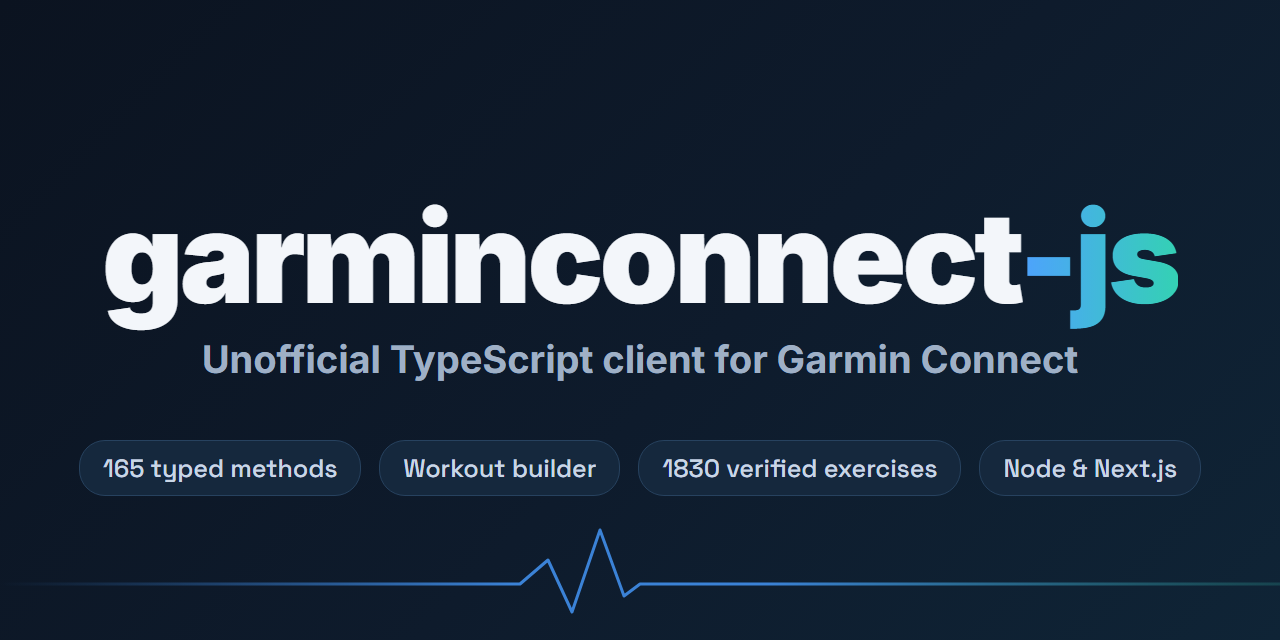
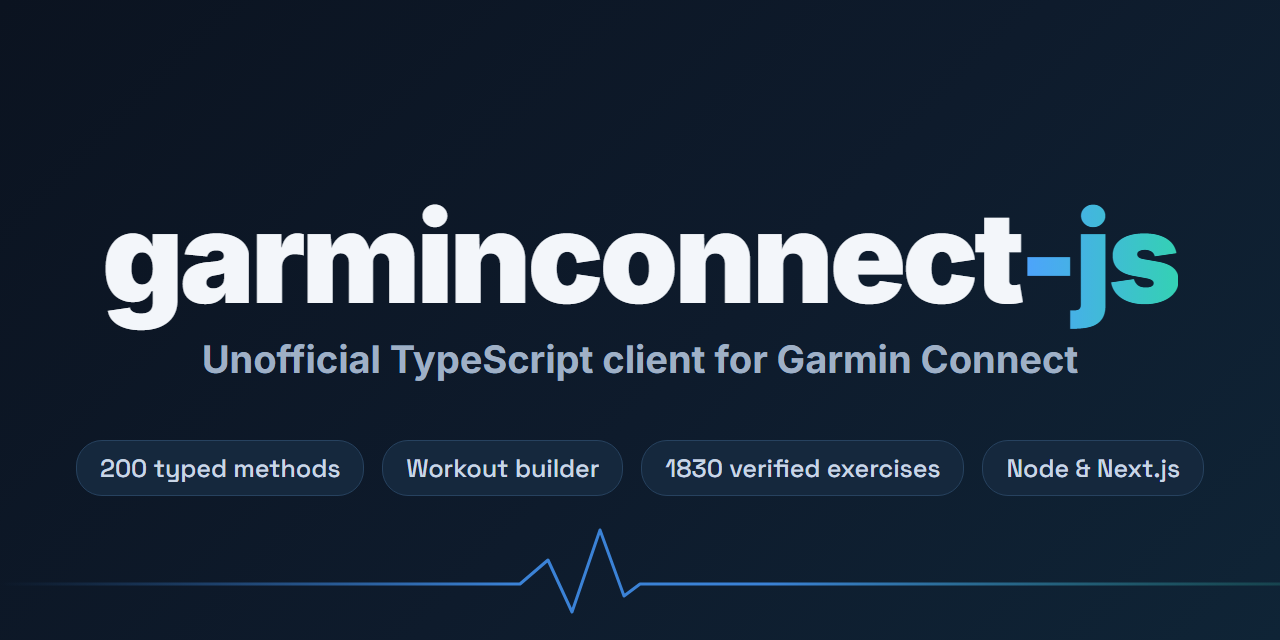
docs(assets): social preview says 200 typed methods

diff --git a/docs/assets/social-preview.html b/docs/assets/social-preview.html
@@ -47,7 +47,7 @@
   <div class="title">garminconnect<span>-js</span></div>
   <div class="sub">Unofficial TypeScript client for Garmin Connect</div>
   <div class="pills">
-    <div class="pill">165 typed methods</div>
+    <div class="pill">200 typed methods</div>
     <div class="pill">Workout builder</div>
     <div class="pill">1830 verified exercises</div>
     <div class="pill">Node &amp; Next.js</div>
